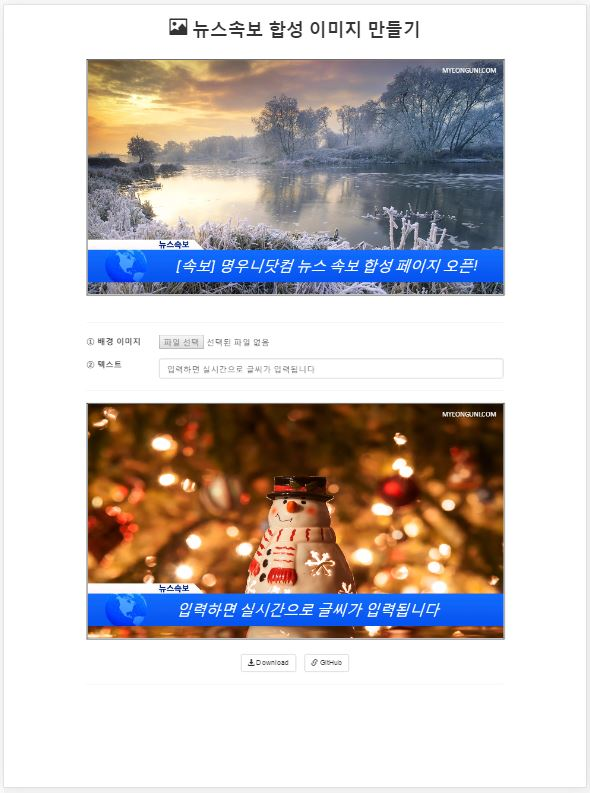
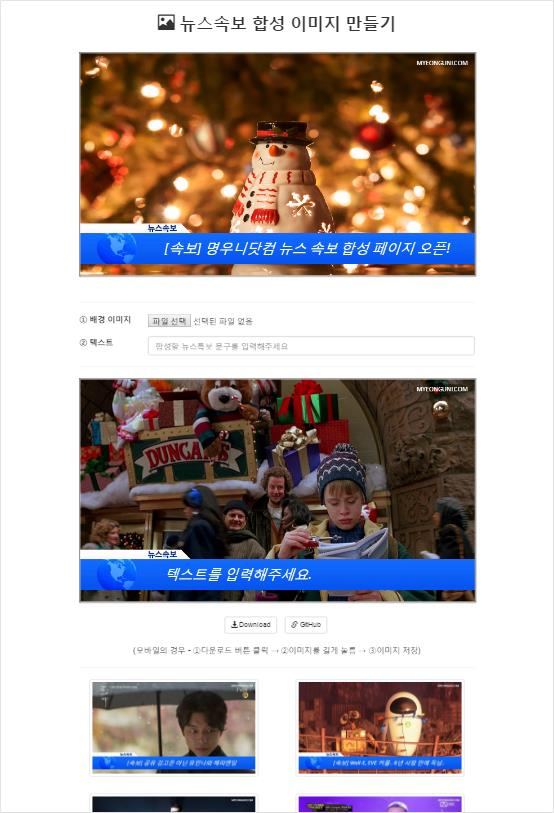
last commit

diff --git a/myeonguni_news.html b/myeonguni_news.html
@@ -44,7 +44,7 @@
 			<div class="form-group row">
 				<label class="col-sm-2 col-form-label">① 배경 이미지</label>
 				<div class="col-sm-10">
-					<input type="file" id="fileName" name="file" disabled onchange="fileUpload(this);">
+					<input type="file" id="fileName" name="file" onchange="createNewsImg(this);" />
 				</div>
 			</div>
 			<!-- 뉴스속보 텍스트 -->
@@ -52,7 +52,7 @@
 				<label for="inputNumber" class="col-sm-2 col-form-label">② 텍스트</label>
 				<div class="col-sm-10">
 					<!-- 텍스트를 입력할때마다(onkyup Event) createNews() 호출 -->
-					<input type="text" class="form-control" id="inputText" name="text" placeholder="합성할 뉴스특보 문구를 입력해주세요" onkeyup="createNews(this.value);">
+					<input type="text" class="form-control" id="inputText" name="text" placeholder="합성할 뉴스특보 문구를 입력해주세요" onkeyup="createNews(this.value);" />
 				</div>
 			</div>
 		</form>
@@ -82,8 +82,34 @@
 					<span class="glyphicon glyphicon-link"></span> GitHub
 				</button>
 			</a>
+			<br/><br/>
+			<p>(모바일의 경우 - ①다운로드 버튼 클릭 → ②이미지를 길게 눌름 → ③이미지 저장)</p>
+
 			<hr/>
 		</div>
+
+		<!-- 샘플 뉴스속보 이미지 -->
+		<div class="row">
+			<div class="col-xs-6 col-md-4 text-center" style="padding-bottom: 30px">
+				<img src="img/sample/img_sample1.jpg" width="300px" class="img-thumbnail">
+			</div>
+			<div class="col-xs-6 col-md-4 text-center" style="padding-bottom: 30px">
+				<img src="img/sample/img_sample2.jpg" width="300px" class="img-thumbnail">
+			</div>
+			<div class="col-xs-6 col-md-4 text-center" style="padding-bottom: 30px">
+				<img src="img/sample/img_sample3.jpg" width="300px" class="img-thumbnail">
+			</div>
+			<div class="col-xs-6 col-md-4 text-center" style="padding-bottom: 30px">
+				<img src="img/sample/img_sample4.jpg" width="300px" class="img-thumbnail">
+			</div>
+			<div class="col-xs-6 col-md-4 text-center" style="padding-bottom: 30px">
+				<img src="img/sample/img_sample5.jpg" width="300px" class="img-thumbnail">
+			</div>
+			<div class="col-xs-6 col-md-4 text-center" style="padding-bottom: 30px">
+				<img src="img/sample/img_sample6.jpg" width="300px" class="img-thumbnail">
+			</div>
+		</div>
+
 	</div>
 
 	<!-- 스크립트 -->
@@ -94,7 +120,7 @@
 			init_defalut_canvas();
 
 			/* 생성할 뉴스 CANVAS 초기화 */
-			createNews('텍스트를 입력해주세요.');
+			createNews('');
 
 			/* 생성한 뉴스 이미지 다운로드 */
 			$("#news_download").click(function() {
@@ -110,20 +136,16 @@
 			// canvas의 context 가져오기
 			var context = canvas.getContext('2d');
 
-
 			/* DEFALUT NEWS CANVAS */
 			// 이미지(뉴스배경) 불러오기
 			var img_news_background = new Image();
-			// 기본 뉴스 배경 이미지 설정
-			img_news_background.src = "img/img_news_background_winter.jpg";
-			// 크리스마스 뉴스 배경 이미지 설정
-			//img_news_background.src = "img/img_news_background_christmas.jpg";
+			// 기본 뉴스 배경 이미지 설정(크리스마스)
+			img_news_background.src = "img/img_news_background_christmas.jpg";
 
 			// 이미지(뉴스자막) 불러오기
 			var img_news_text = new Image();
 			// 기본 뉴스 자막 이미지 설정
 			img_news_text.src = "img/img_news_text.png";
-
 
 	 		// 이미지(뉴스배경) 로드되면 canvas에 방송사, 이미지(배경,자막), 자막 그리기
 			img_news_background.onload = function() {
@@ -144,25 +166,47 @@
 			}
 		}
 
-		// 합성파일을 생성하기 버튼을 눌렀을 시
+
+		/** 생성할 뉴스 자막 이미지 전역변수 선언 **/
+		var createNews_text_img = new Image();
+
+		/* 생성할 뉴스 자막 초기 설정 */
+		createNews_text_img.src = "img/img_news_text.png";
+
+		/** 생성할 뉴스 배경화면 이미지 전역변수 선언 **/
+		var createNews_background_img = new Image();
+
+		/* 생성할 뉴스 배경화면 초기 설정 */
+		createNews_background_img.src = "img/img_news_background_homealone.jpg";
+
+		// 생성할 뉴스 배경 이미지 셋팅 : 배경화면 파일 업로드 시 
+		function createNewsImg(upload){
+			var file = upload.files[0];
+			reader = new FileReader();
+
+			reader.onload = function (event) {
+			    createNews_background_img.src = event.target.result;
+			    createNews($("#inputText").val());
+			};
+			reader.readAsDataURL(file);
+			return false;
+		}
+
+		// 생성할 뉴스 CANVAS 그려주기 : 텍스트 변경 혹은 배경 이미지 변경 시
 		function createNews(inputText){
 			// canvas 요소와 context 가져오기
 			var canvas = document.getElementById('newNewsCanvas');
 			var context = canvas.getContext('2d');
-			// 새로운 이미지(뉴스배경) 불러오기
-			var img_news_background = new Image();
-			// 새로운 뉴스 배경 이미지 설정
-			img_news_background.src = "img/img_news_background_christmas.jpg";
-			// 새로운 이미지(뉴스자막) 불러오기
-			var img_news_text = new Image();
-			// 새로운 뉴스 자막 이미지 설정
-			img_news_text.src = "img/img_news_text.png";
+			// 배경 이미지 선언 및 설정
+			var createNews_back_img = new Image();
+			createNews_back_img.src = createNews_background_img.src;
+
 			// 이미지(뉴스배경) 로드되면 canvas에 방송사, 이미지(배경,자막), 자막 그리기
-			img_news_background.onload = function() {
+			createNews_back_img.onload = function() {
 				// 이미지(뉴스배경) 그리기 - x : y : width : height
-				context.drawImage(img_news_background, 1, 1, 700, 394);
+				context.drawImage(createNews_back_img, 1, 1, 700, 394);
 				// 이미지(뉴스자막) 그리기 - x : y : width : height
-				context.drawImage(img_news_text, 1, 1, 700, 394);
+				context.drawImage(createNews_text_img, 1, 1, 700, 394);
 				// 글씨(방송사) 론트, 색상 설정 및 그리기
 				context.font = '12px Calibri';
 		      	context.fillStyle = 'white';
@@ -170,9 +214,17 @@
 				// 글씨(뉴스자막) 론트, 색상 설정 및 그리기
 				context.font = 'italic 25px Calibri';
 		      	context.fillStyle = 'white';
-				context.fillText(inputText, 150, 355);
+		      	// (inputText)텍스트 입력이 없을 경우
+		      	if (inputText == "")
+		      	{
+		      		context.fillText("텍스트를 입력해주세요.", 150, 355);
+		      	}
+		      	// (inputText)텍스트 입력이 있을 경우
+		      	else
+		      	{
+					context.fillText(inputText, 150, 355);
+		      	}
 			}
-			console.log(inputText.value);
 		}
 	</script> 
 </body>

diff --git a/README.md b/README.md
@@ -6,8 +6,9 @@ HTML5 CANVAS를 이용한 뉴스속보 합성 이미지 만들기 웹 사이트 
 2. 전체적인 UI는 Twitter Bootstrap을 기반으로 만들어졌습니다.
 3. 사용자로부터 배경 이미지 혹은 텍스트 문구를 입력받으면 실시간으로 Javascript와 CANVAS 요소를 통해 이미지를 출력해줍니다.
 4. 사용자는 생성된 이미지를 파일로 다운로드 받을 수 있습니다.
-5. (참고 1) 해당 사이트 - http://myeonguni.com/myeonguni_news/myeonguni_news.html
-6. (참고 2) GitHub - https://github.com/myeonguni/BreakingNews_CreateImg
+5. 사용자로부터 선택된 이미지는 서버에 업로드 되지않습니다. 모든 처리는 클라이언트 단에서 이루어집니다.
+6. (참고 1) 해당 사이트 - http://myeonguni.com/myeonguni_news/myeonguni_news.html
+7. (참고 2) GitHub - https://github.com/myeonguni/BreakingNews_CreateImg
 
 ## 스크린샷
 ![Alt text](/screenshot.JPG)
@@ -18,4 +19,4 @@ HTML5 CANVAS를 이용한 뉴스속보 합성 이미지 만들기 웹 사이트 
 3. 웹 서버 호스팅 : AWS EC2
 
 ## 업데이트 해야할 사항
-input file type 관련 절대경로 가져오기(구글링 결과 최근 우회방법 마저 보안상 막혀있음. 다른 로직 생각해볼 것. 단, 페이지 이동이 없어야 함.)
+input file type 관련 절대경로 가져오기(구글링 결과 최근 우회방법 마저 보안상 막혀있음. 다른 로직 생각해볼 것. 단, 페이지 이동이 없어야 함.) → 해결완료 : JAVSCRIPT File IO로 읽어오는 방법
